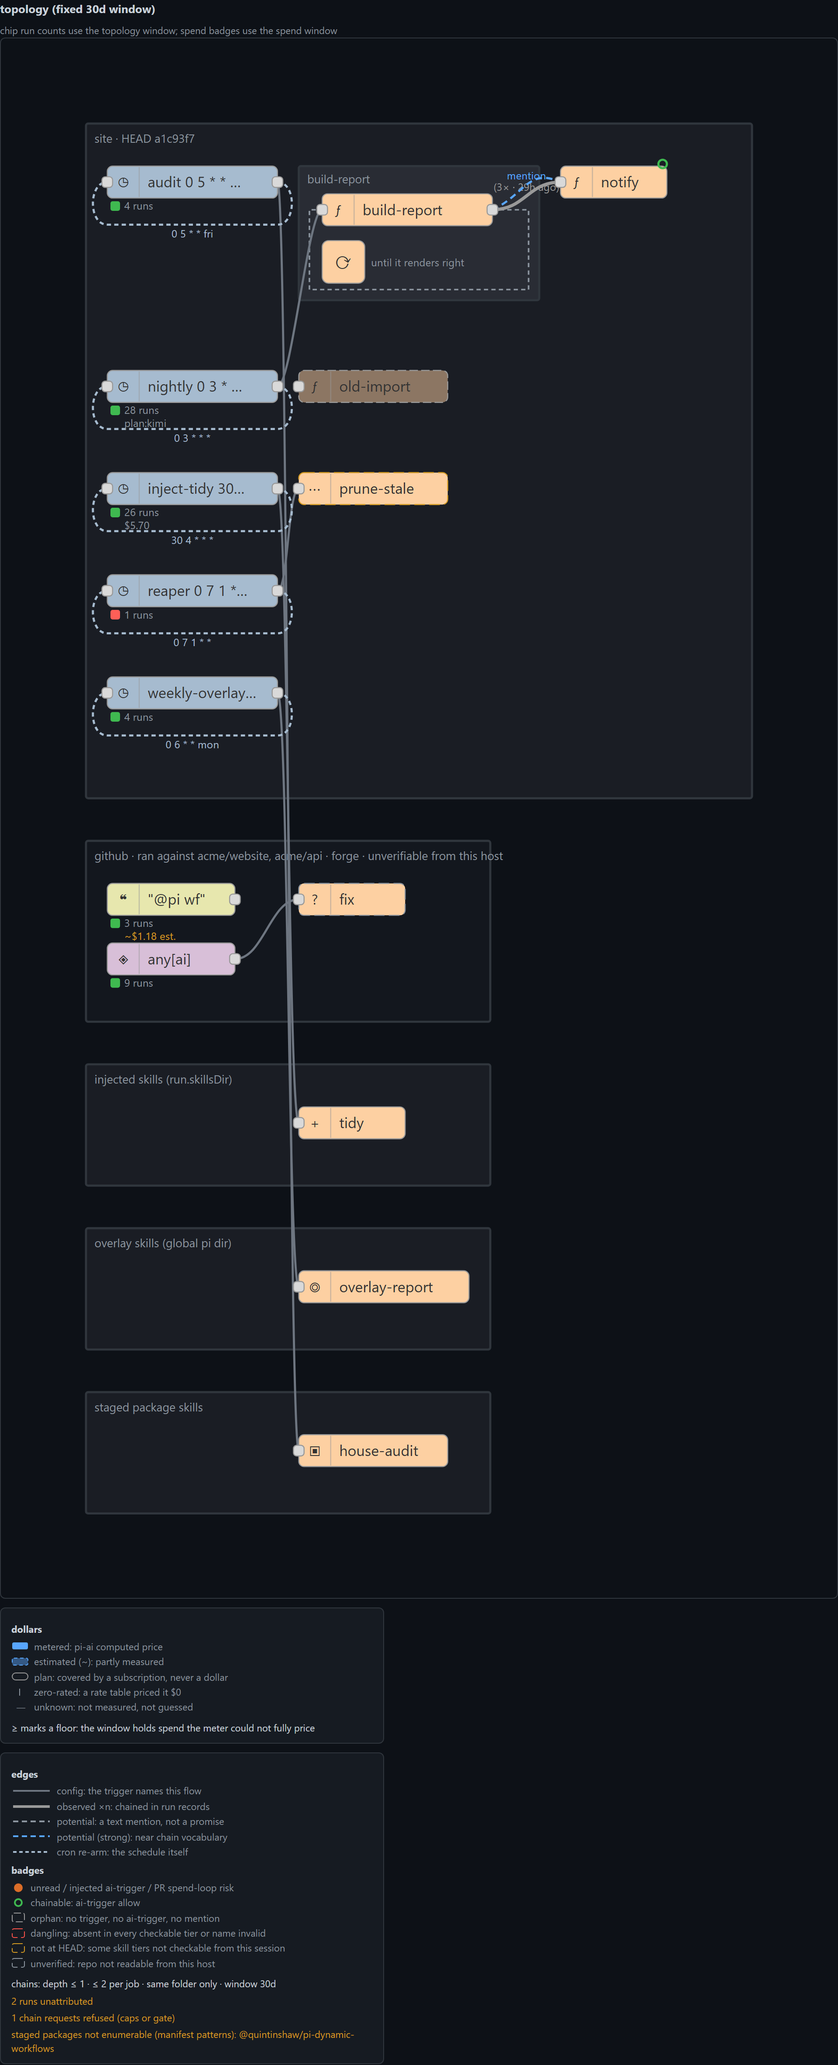
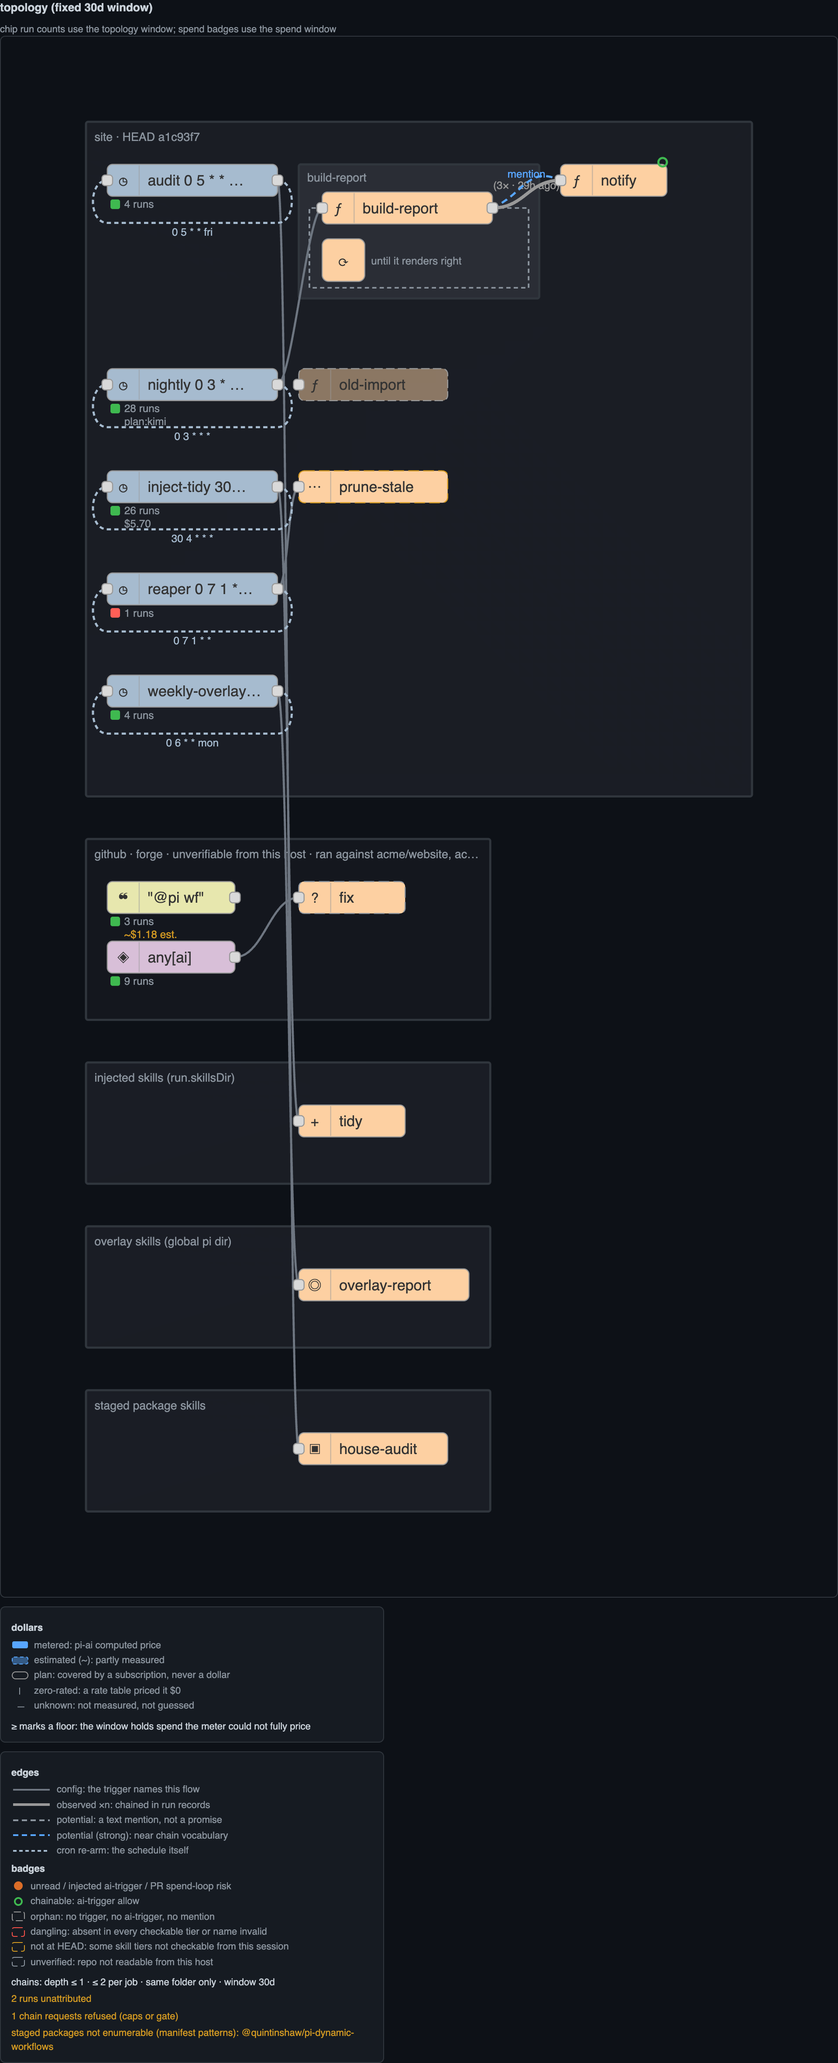
fix(admin): fit the cron pattern to its loop in the page, and keep the forge caveat in view at any width (#422)
A second adversarial pass found each of the first repair's fixes carrying a
defect of its own.

The cron re-arm label was cut by the builder to a budget in columns, and a
6px column over-counts the 10px font the label is drawn in (about 5px a
character). Over-counting cuts early, not late: weekday lists with an hour
list, 34 characters and 180px wide under a 196px loop, were cut. The builder
now draws every pattern whole and marks the wire gcron; the page fits the
label to its loop's drawn width, which it can measure and the builder can
only guess.

Putting the forge caveat first was not enough: a forge trigger that runs a
command has no flow column, its group sat at the 200px minimum, and the page
cut the caveat itself. A forge group is now at least as wide as its label
and the caveat.

A loop hint was bounded by its skill group's edge, but the ring wire runs
10px inside it from the chip's midline down; hints now stop at the ring,
the group's title above it keeps the whole width.

The right-to-left mark treated the Arabic-Indic digits as right-to-left
letters, which put the ellipsis inside the number; one table, without them,
now serves both the page's cut and the builder's clipColumns, which carries
the mark too (drawnColumns does not count it). The halving tries a few steps
past its answer, because an Arabic letter can make the start before it
narrower. A measure that throws part way restores the drawn text, and the
[…]

diff --git a/specs/design.md b/specs/design.md
@@ -1669,36 +1669,44 @@ money with no upstream turn limit (`REQ-RUNNER-TURN-BUDGET`).
   whose span holds the text's start bounds it at its right edge; only when no rect holds it does a rect
   that starts after it (a list label's bar or chip) bound it at its left edge, because a chip's output
   port straddles the chip's edge and bounding a label there cut ordinary names the builder had already cut
-  at fourteen columns a second time; and the next left-anchored label on the same baseline bounds it too.
-  The nearest bound wins, 2px are kept, and a label no bound reaches (a value drawn after its bar) is left
-  alone. **Geometry never moves**: the static estimate still sizes every chip and every wire, the page
+  at fourteen columns a second time; the next left-anchored label on the same baseline bounds it too; and
+  a loop hint's box ends at the ring wire drawn inside its skill group's edge. The nearest bound wins, 2px
+  are kept, and a label no bound reaches (a value drawn after its bar) is left alone. Width is not quite
+  monotone (an Arabic letter can turn the one before it into a narrower joining form), so a few steps past
+  the halving's answer are tried too. **Geometry never moves**: the static estimate still sizes every chip and every wire, the page
   only ever shortens a label, and a page with its script off is exactly the static page, which is why a
   chip is never grown to fit instead (the layout is computed ahead of time and the wires would have to
   follow it). A label cut this way gains a title of the text the builder drew (for a label the builder
   had cut already, that is its cut, not the data) unless its group shows a tooltip of its own; that text
   is kept on the element so a second pass after the fonts arrive starts from it, and a pass under which it
-  fits again restores it and drops the title. A cut whose last strong character is right-to-left carries a
+  fits again restores it and drops the title; a measure that fails part way leaves the label as drawn. A
+  cut whose last strong character is right-to-left, in the builder's cut or the page's, carries a
   right-to-left mark after its ellipsis, or the ellipsis joins the left-to-right paragraph and is drawn
-  beside the first word. A title whose tail is a caveat puts the caveat first, because the page cuts from
-  the end: a forge group reads `forge · unverifiable from this host` before the repos it ran against, and
-  an unreachable folder names why before where. The cron re-arm label, centred under its loop with no
-  box, is the one label the builder cuts instead: to the loop's span at 6px a column of its 10px font
-  (which draws at about 5px a character, so a weekday list is drawn whole), with the whole pattern in a
-  title, since nothing else on the page shows it. A loop hint is trimmed by whole clusters, so a Prepend
-  keeps the space it joined. ASCII scenes are byte-identical except the reordered forge and unreachable
-  titles and a cron pattern wider than its loop, which is now cut; the page's bytes otherwise change only
-  by the script. **Residuals, stated**: with the script off every #418 residual stands; the cron cut is
+  beside the first word; the Arabic-Indic digits and number formats are not right-to-left letters to the
+  bidi algorithm, and a mark after them put the ellipsis inside the number, so they decide nothing. A
+  title whose tail is a caveat puts the caveat first, because the page cuts from the end: a forge group
+  reads `forge · unverifiable from this host` before the repos it ran against, and its box is at least
+  wide enough for its label and that caveat (a command-only forge trigger has no flow column, and its
+  group sat at the minimum width, where the caveat itself was cut); an unreachable folder names why
+  before where. The cron re-arm label, centred under the loop it labels, is fitted by the page to that
+  loop's drawn width, not by the builder: a builder budget in columns over-counted a 10px font and cut
+  weekday lists that fitted. A loop hint is trimmed by whole clusters, so a Prepend keeps the space it
+  joined. ASCII scenes are byte-identical except the reordered forge and unreachable titles, a class on
+  each cron re-arm wire, and a forge group narrower than its caveat, which widens; the page's bytes
+  otherwise change only by the script. **Residuals, stated**: with the script off every #418 residual stands; the cron cut is
   still an estimate; without `Intl.Segmenter` the cut falls back to code points, which keeps surrogate
   pairs whole but can split a combining sequence; a label that measures 0px (not rendered) is left as
-  drawn; a box too small for one character keeps the ellipsis alone; the fit measures width only, so a
+  drawn; a box too small for one character keeps the ellipsis alone; a second pass after web fonts load
+  runs only when fonts were still loading; the fit measures width only, so a
   stack of combining marks still draws into the row above; and an emoji's ink runs a few pixels past the
   advance width measured, inside the 2px kept only partly. Measured in headless Chrome by
   `.github/scripts/label-fit-check.mjs` (a local gate, not CI), whose probe is written apart from the fit
   and also checks the rect after a label, the svg's own edge, overlaps across groups, needless cuts and
-  titles: over a corpus of every script named here plus right-to-left, combining and conjunct labels, 29
-  labels ran past a bound with the fit stripped and none with it; on a plain ASCII page and on a realistic
-  one (long lowercase names, a weekday cron, a forge group with two repos) no label that fitted was
-  changed, and the forge caveat stayed on the page. The
+  titles, and measures a cron label against its loop: over a corpus of every script named here plus
+  right-to-left, combining and conjunct labels, 29 labels ran past a bound with the fit stripped and none
+  with it; on a plain ASCII page and on a realistic one (long lowercase names, weekday crons with hour and
+  minute lists, a forge group with two repos and a command-only one) no label that fitted was changed, no
+  cron pattern was cut, and both forge caveats stayed on the page. The
   LLM-callable tools are the **reads** `dispatch_status`, `dispatch_runs`, `dispatch_costs` (which returns
   the fold as JSON whose every monetary value carries its `class`, so a model consuming it cannot launder
   an estimate into a fact), `dispatch_triggers`, `dispatch_pauses`, `dispatch_limits`, `dispatch_waits`;
@@ -4784,4 +4792,4 @@ a tunnel.
 | 2026-09-24 | Issue #402. **`DES-ADMIN-VIA-PI-EXTENSION` AMENDED**: the control-byte class draws its line at INTERPRETED against COMPOSING, where it stopped at what a terminal EXECUTES. **The old boundary was the wrong reading of its own rule.** It excluded bidi and zero-width code points as things "a terminal does not INTERPRET", and a terminal does interpret a bidi override: it reorders everything after it, so `repo/safe` plus U+202E plus `gnp.txt` is drawn as a name ending in `.png`, and the job id, the target and the branch are all attacker- or model-writable while a run record is what an operator reads before deciding what to do about it. The other half is invisibility rather than reordering: `deploy-prod` and `deploy` plus U+200B plus `-prod` draw as eleven columns each and are NOT the same trigger, so a picker that selects by the string acts on the row the operator did not mean -- the dialog gate's own ambiguity note, from issue #404, is about exactly this and relies on `#N` prefixes to stay safe. **IN, AND IT IS A RULE RATHER THAN A LIST, which took three attempts to become one**: what a terminal executes (C0, DEL, C1), what breaks a line, what draws NOTHING (the format characters, the bidi controls and isolates, the Hangul and halfwidth fillers, the tag block, and the unassigned regions the renderer blanks), and what draws a BLANK a reader cannot tell from a space (U+00A0 and every other Unicode space, U+2800). 4,024 code points against the 98 the first attempt listed, and that list is a strict SUBSET of this, so nothing it held was let go. **DELIBERATELY OUT**: a code point that COMPOSES the character beside it -- U+200D joins an emoji sequence into one glyph, U+200C is orthography in Persian and the Indic scripts, and a variation selector chooses a character's form and carries a column with it under issue #401. Substituting those changes a CHARACTER where substituting the rest reveals a CONTROL, and a gate that cannot tell them apart corrupts the text it was added to protect; a class that swept up every zero-width code point would split a family emoji into three, which is pinned from that side too. **ONE CLASS AND ONE OPERATION, not a second named operation**, which is the shape the issue left open. The worker ESCAPES for the same question (`endpointShown`, issue #379) and that is NOT an inconsistency to reconcile: its gate is an allowlist of printable ASCII, correct for a DNS name or a socket path, and this panel renders a CJK repository name as a matter of course, so the same allowlist here would escape the content #401 had just taught it to measure. **The width half of the issue was already answered by #401 rather than pending**: none of these corrupts the geometry, because every measurement site scrubs BEFORE it measures. A first version of this row said "every one of these code points measures zero columns now" and that is false of nearly half of them -- by this module's own table 3,843 of the 4,024 measure ONE and only 181 measure zero, while the renderer draws all but 19 of them as nothing, and the gap between those two readings is exactly what the predicate is for -- so the conclusion held and the reason did not. **Substitution is therefore no longer column-preserving**, which it used to be for nothing: every member of the old class measured exactly one column. **What this does NOT answer, stated rather than implied**: substituting makes a difference VISIBLE, it does not say which of two look-alike strings was intended, because the panel cannot know. **`OQ-035` AMENDED with it**, because `scrubReason` shares the class. **The worker's VALIDATOR is UNCHANGED, checked**, for the reason `DES-ONE-SHOT-DISARM-IN-THE-FILE` already records. **Code evidence**: admin/src/panel.mjs -> interpreted, mapInterpreted, FLAG_SEQUENCE, scrubControls, hasControls, stripControls; admin/src/dashboard.ts -> tailMatches; admin/test/control-bytes.test.mjs. |
 | 2026-09-25 | Issue #417. **`DES-ADMIN-VIA-PI-EXTENSION` AMENDED**: a cluster that BEGINS with a zero-width character is MATCHED to the pinned renderer, where the entry said it was filed rather than matched. pi-tui 0.80.7 computes a cluster's base after stripping leading non-printing characters and then counts that base again, so `panel.mjs` under-counted, the direction that overflows a pane. **The issue under-described its own defect**, measured: it is not only a string's start (thirty-one spacing marks start a cluster anywhere, so already-scrubbed Myanmar text drew a 24-column frame at 33) and not only four tails (thirteen prepended format characters double any following code point in U+FF00-U+FFEF but U+FFA0, a two-column one included). The stepper now yields the base and the part of the leader run inside its cluster as one step, asking `Intl.Segmenter` with the renderer's arguments whether the run starts a cluster; `box`, `frame`, the line editor and `renderRuns` measure where the text is drawn; a styled line is also measured piece by piece because the overlay compositor segments each piece alone. Bounding was rejected because the substitution class has no notion of position and would rewrite content. New sweeps in `width.test.mjs` pin the renderer-derived counts literally (2,684 leaders, 242 tails, 13,545 and 3,273 doubled forms, 6,446 breaking predecessors, 26 regional indicators). The review pass that gated it found a memo keyed without the start of a string (an under-count, reproduced in the LIST pane), an editor that lost its cursor highlight on ordinary Thai and trimmed quadratically, and a cursor cell reserved one column wide that pushed a two-column character out of the window; all four are fixed and pinned. A further round found the editor's trim separating a Thai tone mark from its letter, a bundle that took a mark belonging to the previous letter, and a cursor inside a step that rounded FORWARD onto the step after it: it now names its own step, which is where an insert lands. Residuals stated in the entry. **UNCHANGED, checked**: `OQ-035` (the class itself is untouched), `REQ-TOPOLOGY-GRAPH`, `REQ-INSIGHTS-HTML-EXPORT`, the constitution. **Code evidence**: admin/src/panel.mjs -> widthSteps, leaderStep, contextOf, countLater, box, makeLineInput; admin/src/style.mjs -> visibleLen, frame; admin/src/render.mjs -> renderRuns, afterSpace; admin/test/width.test.mjs. |
 | 2026-09-25 | Issue #418. **`DES-ADMIN-VIA-PI-EXTENSION` AMENDED**: the insights artifact sizes and cuts its labels in estimated columns and never through a character. `graph-html.mjs` sized chips as `LABEL_X + label.length * CHAR_W + 12` and both it and `insights-html.mjs` cut about forty fields with `t.slice(0, max)`: a CJK name ran out of its chip, and an odd-prefixed emoji value left raw lone surrogates in the page and their escaped text in the embedded JSON. **Correction to the issue's own route**: it suggested reaching for `panel.mjs`, but `graph-html.mjs` loads nothing by design, so it carries `labelColumns`, an over-estimate held to the panel's table by a sweep (never narrower on 1,112,064 code points and 2,224,128 pairs, exactly equal on 185,319 code points, pinned; never below the code-unit count, so no label regresses), plus `clip` (a code-unit cap that gives up half a pair), `clipColumns` (a cut between grapheme clusters, two columns for the ellipsis after a wide character) and `drawnColumns` (the width that cut leaves); the insights page reuses them, and cuts a plan chip's text to its capped rect. The review pass measured an emoji at 17 to 19px in a browser, past two columns, so an emoji counts three; found that counting a mark as nothing regressed Indic labels; and found cuts that kept the surrogate pair but split a flag or a family, so every cut ends between clusters (`panel.mjs` gains `cutUnits` for the model's caps) and both page sinks make strings well-formed. A missed feeder was fixed at its source: `findLoopHints` cut a hint with a code-unit `{0,60}`. Pages of printable ASCII byte-identical to `main` on every fixture, except a plan chip whose text used to run past its rect. Residuals named in the entry. **UNCHANGED, checked**: `REQ-INSIGHTS-HTML-EXPORT`, `REQ-TOPOLOGY-GRAPH`, `DES-GRAPH-EDGE-DERIVATION`. **Code evidence**: admin/src/graph-html.mjs -> labelColumns, clip, clipColumns, drawnColumns, chipLabel, chipWidth, computeSkillGroup, groupTitle; admin/src/insights-html.mjs -> layoutBarList, barListSvg; admin/src/graph-model.mjs -> findLoopHints, clipName, parseSkillMeta; admin/src/panel.mjs -> cutUnits; admin/test/graph-html.test.mjs; admin/test/insights-html.test.mjs. |
-| 2026-09-25 | Issue #422. **`DES-ADMIN-VIA-PI-EXTENSION` AMENDED**: the residuals #418 stated (labels the column estimate cannot size) are closed by MEASURING at view time rather than by widening the estimate. **Why not a wider table**: the page's font is the viewer's system stack (`-apple-system`, `Segoe UI`, Roboto and on), so a table measured in one browser on one OS is another's guess, and a table that covered wide Latin letters would move every ASCII chip; a measurement in the page is exact wherever it runs. **Why not a chip that grows**: the layout, the column pitch and every wire are computed ahead of time from the chip widths, so a chip grown in the browser would need the wires rerouted there too; the page only ever shortens a label, never moves a shape. **What changed**: `graph-html.mjs` exports `FIT_JS` (the insights page runs it ahead of `PAGE_JS`, inside a try), which measures each left-anchored label against the box the markup already gives it and cuts on grapheme boundaries, by halving, with a measured ellipsis (a right-to-left mark after it when the cut ends right to left), adding a title of the drawn text where the group shows no tooltip; a label's box is the rect that HOLDS it before any rect after it, because bounding a chip label at its output port cut ordinary names a second time; the forge and unreachable group titles put their caveat first, since the page cuts from the end; the cron re-arm label is cut in the builder to its loop's span, with a title of the whole pattern; `findLoopHints` trims whole clusters through the new `panel.mjs` `trimClusters`, so a Prepend keeps the space it joined. **Unchanged**: the static estimate (`labelColumns`, its sweep and every chip width), so ASCII scenes are byte-identical except the two reordered titles and a cron pattern wider than its loop, and a page with its script off is the page it was. **Measured** by the new local gate `.github/scripts/label-fit-check.mjs` in headless Chrome, with a probe written apart from the fit: 29 corpus labels ran past a bound with the fit stripped and none with it, no needless cut, and no label that fitted changed on a plain or a realistic ASCII page. `REQ-INSIGHTS-HTML-EXPORT` UNCHANGED, checked (the artifact binds no port and loads nothing; the fit reads only the page's own DOM); `REQ-TOPOLOGY-GRAPH` UNCHANGED, checked (every fact it names is still on the page: (e2)'s record-derived repo list, now after the caveat, may be cut from a narrow group's drawn title and keeps its whole text in the title the cut adds, and (f)'s rule that a truncation says so is kept by the ellipsis); `DES-GRAPH-EDGE-DERIVATION` UNCHANGED, checked (no edge or label vocabulary moves). Code evidence: `graph-html.mjs` `FIT_JS` (`fitLabels`), `groupTitle`, `routeWire` (`labelMax`), `wireSvg`; `insights-html.mjs` script assembly; `graph-model.mjs` `findLoopHints`; `panel.mjs` `trimClusters`. |
+| 2026-09-25 | Issue #422. **`DES-ADMIN-VIA-PI-EXTENSION` AMENDED**: the residuals #418 stated (labels the column estimate cannot size) are closed by MEASURING at view time rather than by widening the estimate. **Why not a wider table**: the page's font is the viewer's system stack (`-apple-system`, `Segoe UI`, Roboto and on), so a table measured in one browser on one OS is another's guess, and a table that covered wide Latin letters would move every ASCII chip; a measurement in the page is exact wherever it runs. **Why not a chip that grows**: the layout, the column pitch and every wire are computed ahead of time from the chip widths, so a chip grown in the browser would need the wires rerouted there too; the page only ever shortens a label, never moves a shape. **What changed**: `graph-html.mjs` exports `FIT_JS` (the insights page runs it ahead of `PAGE_JS`, inside a try), which measures each left-anchored label against the box the markup already gives it and cuts on grapheme boundaries, by halving, with a measured ellipsis (a right-to-left mark after it when the cut ends right to left), adding a title of the drawn text where the group shows no tooltip; a label's box is the rect that HOLDS it before any rect after it, because bounding a chip label at its output port cut ordinary names a second time; the forge and unreachable group titles put their caveat first, since the page cuts from the end, and a forge group is at least as wide as its caveat; a loop hint's box ends at the ring wire; the cron re-arm label is fitted by the page to its loop's drawn width (a builder budget in columns cut weekday lists that fitted), its wire marked `gcron` for it; one right-to-left table serves the builder's cut and the page's, leaving the Arabic-Indic digits out; `findLoopHints` trims whole clusters through the new `panel.mjs` `trimClusters`, so a Prepend keeps the space it joined. **Unchanged**: the static estimate (`labelColumns`, its sweep and every chip width), so ASCII scenes are byte-identical except the two reordered titles, the `gcron` class and a forge group narrower than its caveat, and a page with its script off is the page it was. **Measured** by the new local gate `.github/scripts/label-fit-check.mjs` in headless Chrome, with a probe written apart from the fit: 29 corpus labels ran past a bound with the fit stripped and none with it, no needless cut, no cron pattern cut, and no label that fitted changed on a plain or a realistic ASCII page. `docs/images/graph-view.png` re-shot from the worked example (PR #196's fixture) so the forge title shows its new order. `REQ-INSIGHTS-HTML-EXPORT` UNCHANGED, checked (the artifact binds no port and loads nothing; the fit reads only the page's own DOM); `REQ-TOPOLOGY-GRAPH` UNCHANGED, checked (every fact it names is still on the page: (e2)'s record-derived repo list, now after the caveat, may be cut from a narrow group's drawn title and keeps its whole text in the title the cut adds, and (f)'s rule that a truncation says so is kept by the ellipsis); `DES-GRAPH-EDGE-DERIVATION` UNCHANGED, checked (no edge or label vocabulary moves). Code evidence: `graph-html.mjs` `FIT_JS` (`fitLabels`), `groupTitle`, `routeWire` (`labelMax`), `wireSvg`; `insights-html.mjs` script assembly; `graph-model.mjs` `findLoopHints`; `panel.mjs` `trimClusters`. |

diff --git a/docs/graph.md b/docs/graph.md
@@ -73,7 +73,10 @@ A local folder group is headed by its `run.folder`, shown as a basename unless y
 opt-in. A forge group's triggers name no repository in
 `triggers.json` (routing belongs to the forge app installation), so the group instead lists the
 repositories its **recorded runs** actually hit in the window, labelled as record-derived: history
-answering a question configuration cannot.
+answering a question configuration cannot. The title leads with `forge · unverifiable from this host`
+and the list follows it, because the page shortens a title that runs past its box from the end: the
+caveat always shows, and a list too long for the group ends in an ellipsis with the whole title on
+hover. Any label the page shortens that way keeps its full text on hover.
 
 ## Run attribution
 
